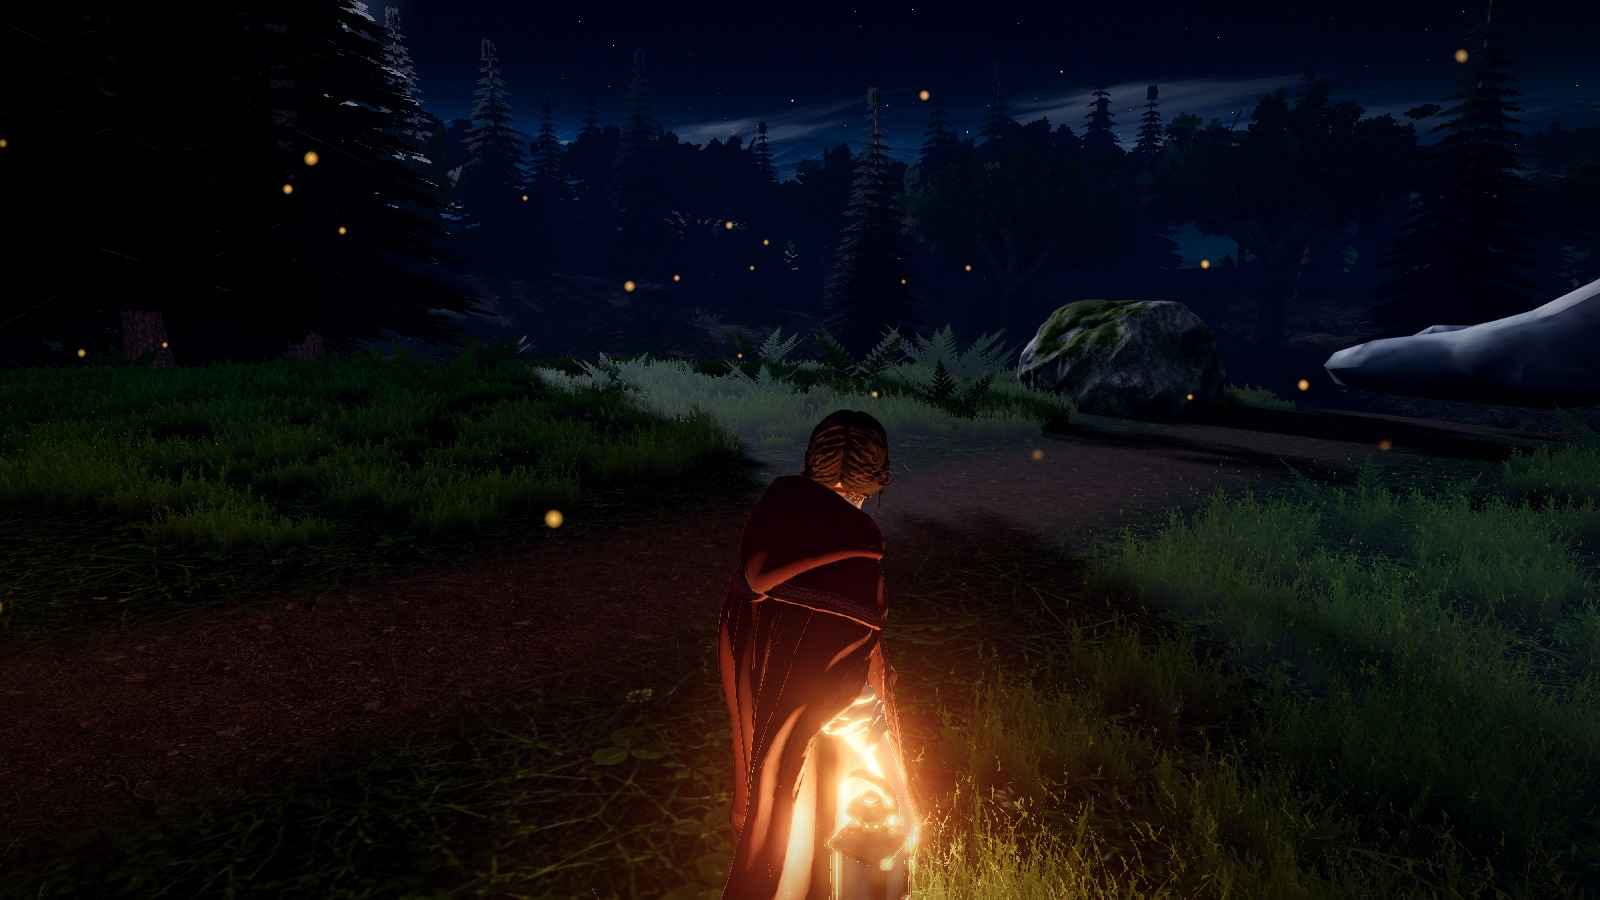
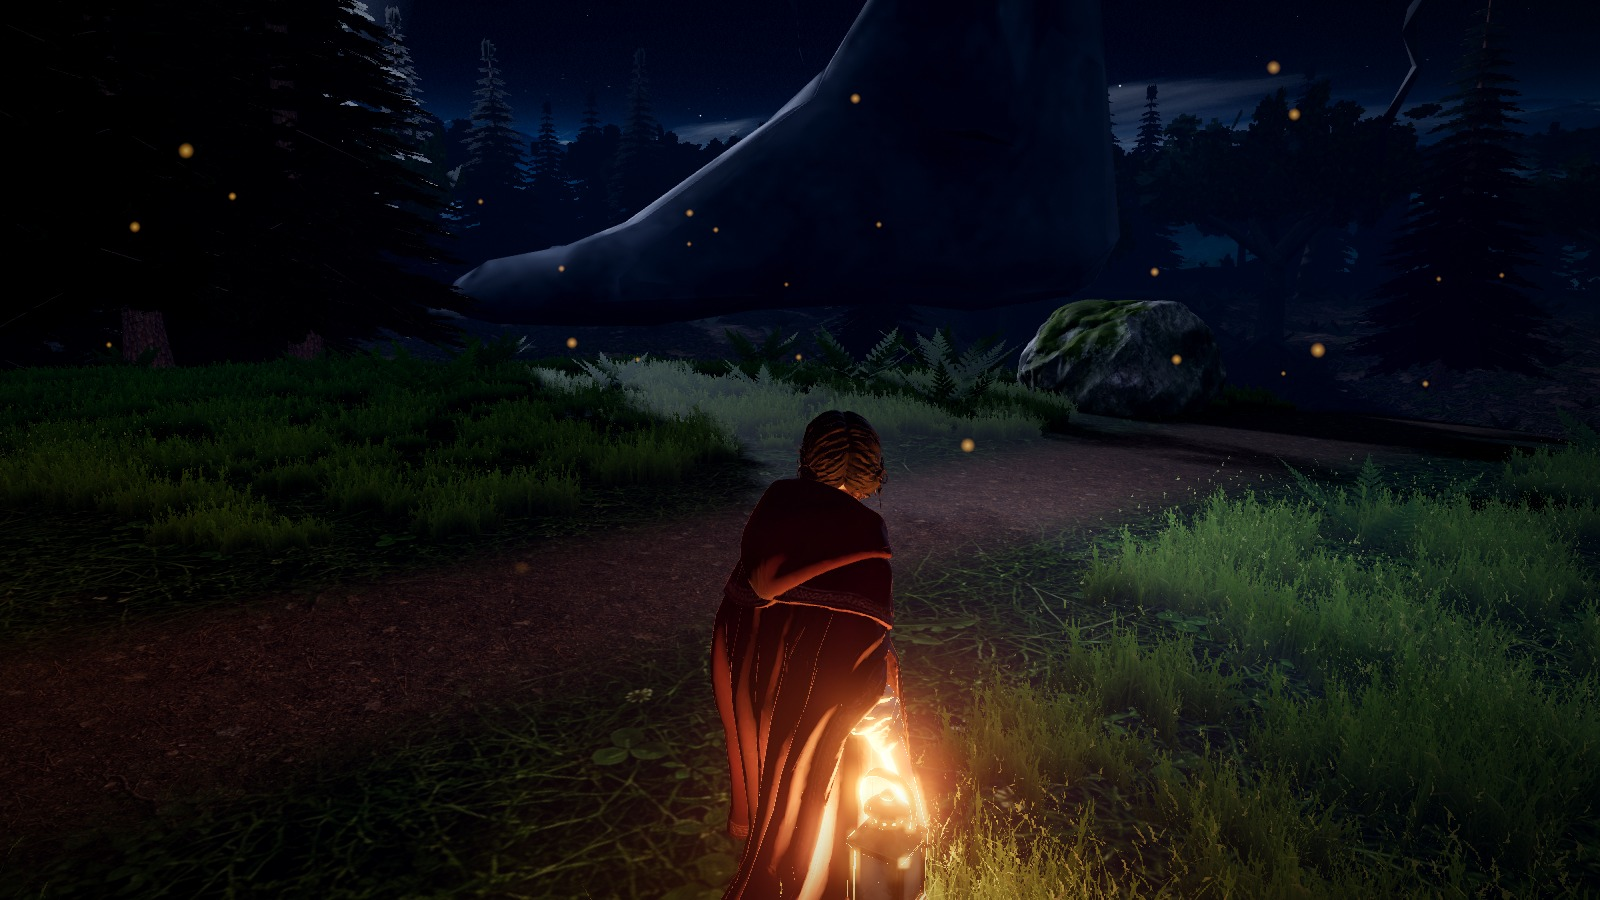
Demons render at their real size: size the model once on load, then clone it
Claude-Session: https://claude.ai/code/session_01KBR17N2ACubxzZdPGn3xTV

diff --git a/game/src/world.js b/game/src/world.js
@@ -685,12 +685,13 @@ window.GAME = window.GAME || {};
 
     // ----- Demons: wraiths in black cloaks (simple stand-in until the model loads) -----
     let demonGltf = null;
-    loader.load('models/demon.glb', g => { demonGltf = g; }, undefined, () => console.info('No model at models/demon.glb; using a simple shape.'));
+    // sized once on load: a fresh clone's bones aren't placed yet, so measuring the clone gives the wrong height
+    loader.load('models/demon.glb', g => { fit(g.scene, { height: 1.25 }); demonGltf = g; }, undefined, () => console.info('No model at models/demon.glb; using a simple shape.'));
     const demons = {};
     function makeDemon() {
       const g = new T.Group(); g.userData = { scale: 0, scaleT: 0, mode: 'attack', phase: rnd() * 6 };
       if (demonGltf) {
-        const model = matte(fit(SkeletonUtils.clone(demonGltf.scene), { height: 1.25 })); g.add(model);
+        const model = matte(SkeletonUtils.clone(demonGltf.scene)); g.add(model);
         if (demonGltf.animations.length) { const m = new T.AnimationMixer(model); mixers.push(m); m.clipAction(demonGltf.animations[0]).play(); }
       } else {
         add(new T.ConeGeometry(.45, 1.3, 12), mat.dark, 0, .65, 0, g);
